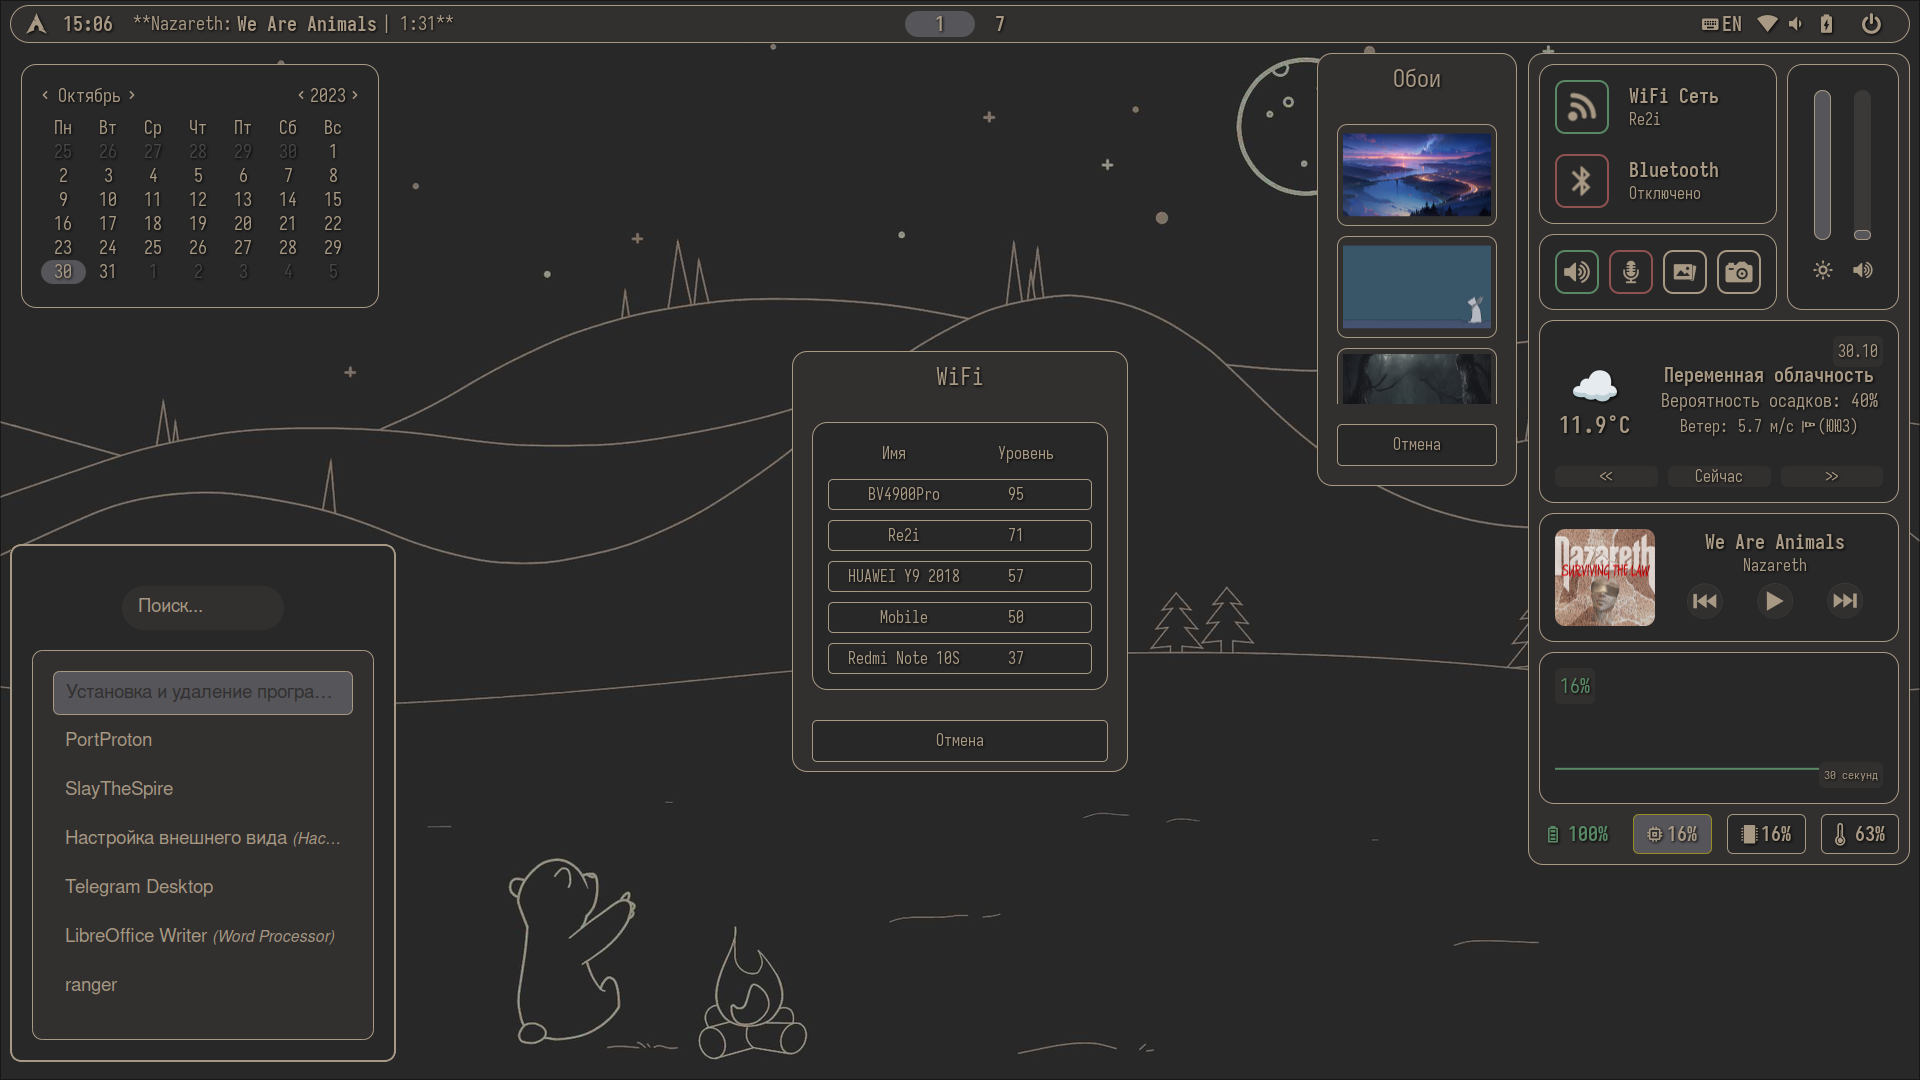
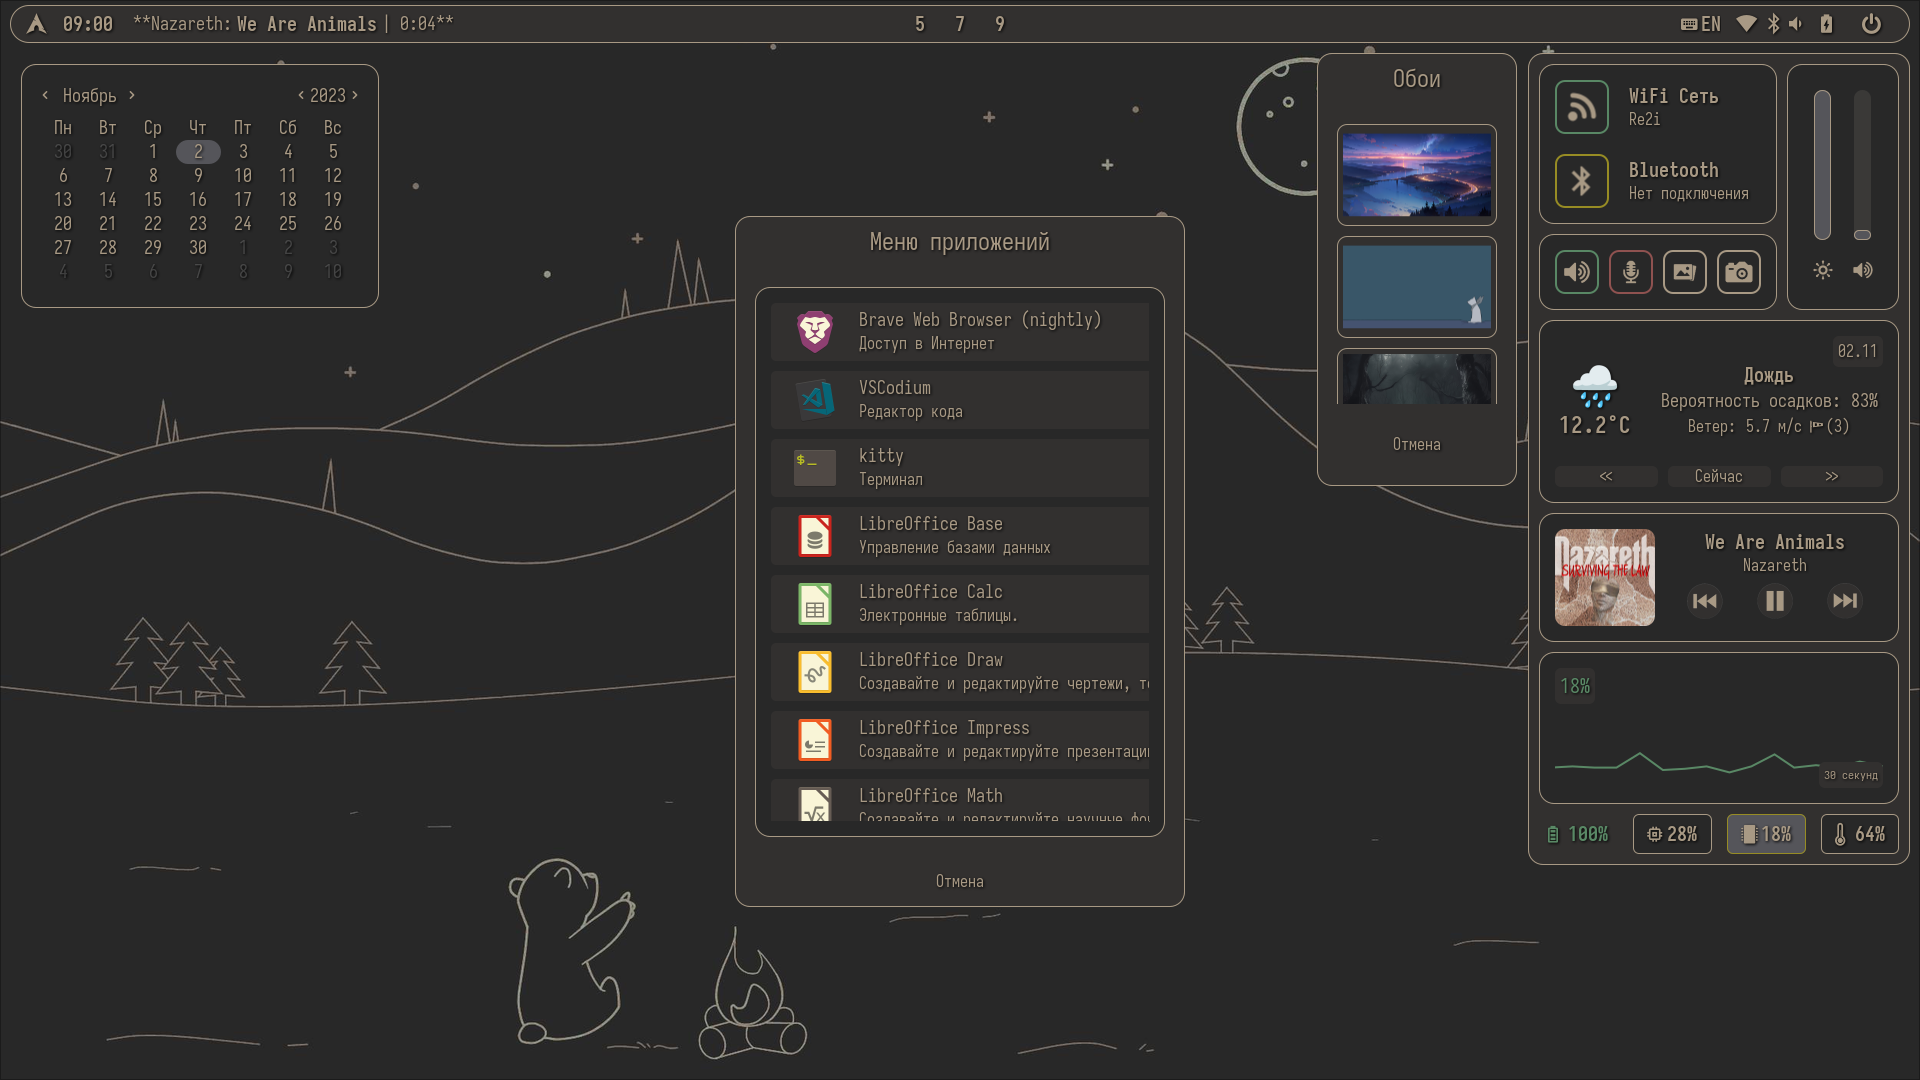
modified:   README.md

diff --git a/README.md b/README.md
@@ -1,7 +1,7 @@
 # My Eww Dotfiles for Hyprland.
 
 
-This is my eww dotfiles repository. App launcher -rofi, the other widgets are EWW.
+This is my eww dotfiles repository. All widgets are EWW.
 
 ![preview](eww/images/screenshot/1.jpg)
 
@@ -9,7 +9,6 @@ This is my eww dotfiles repository. App launcher -rofi, the other widgets are EW
 
 - hyprland
 - eww
-- rofi
 - jq 
 - curl
 - socat
